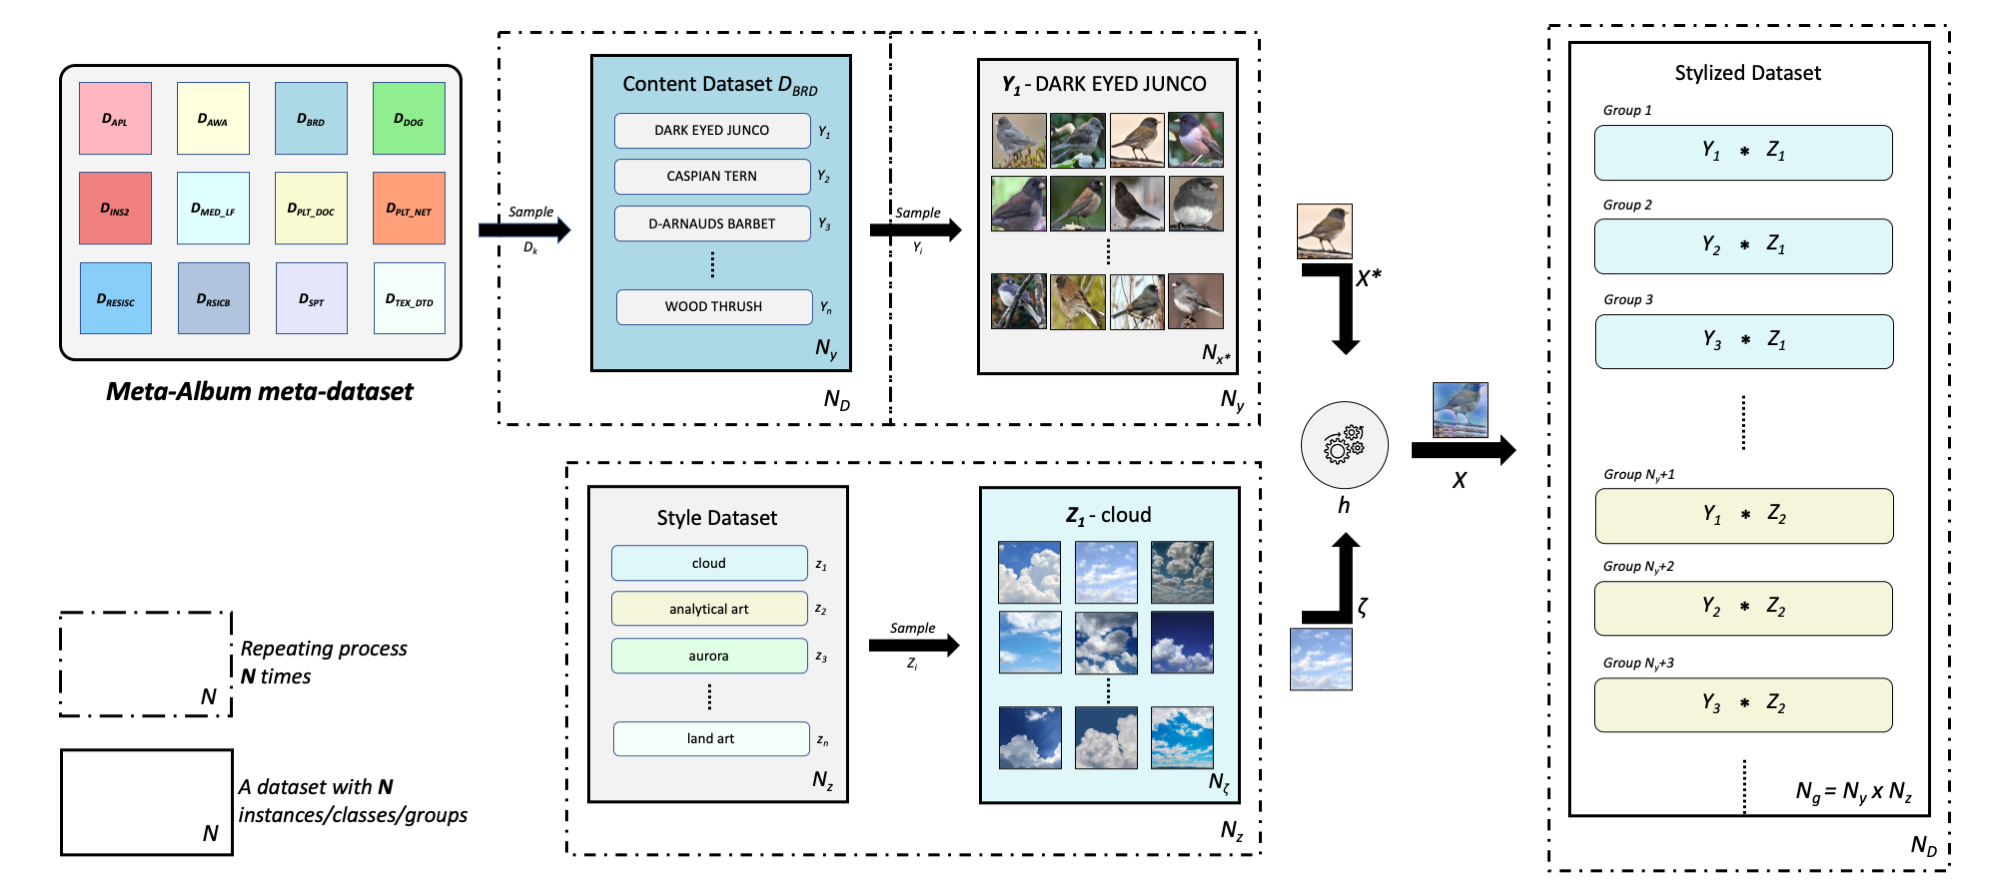
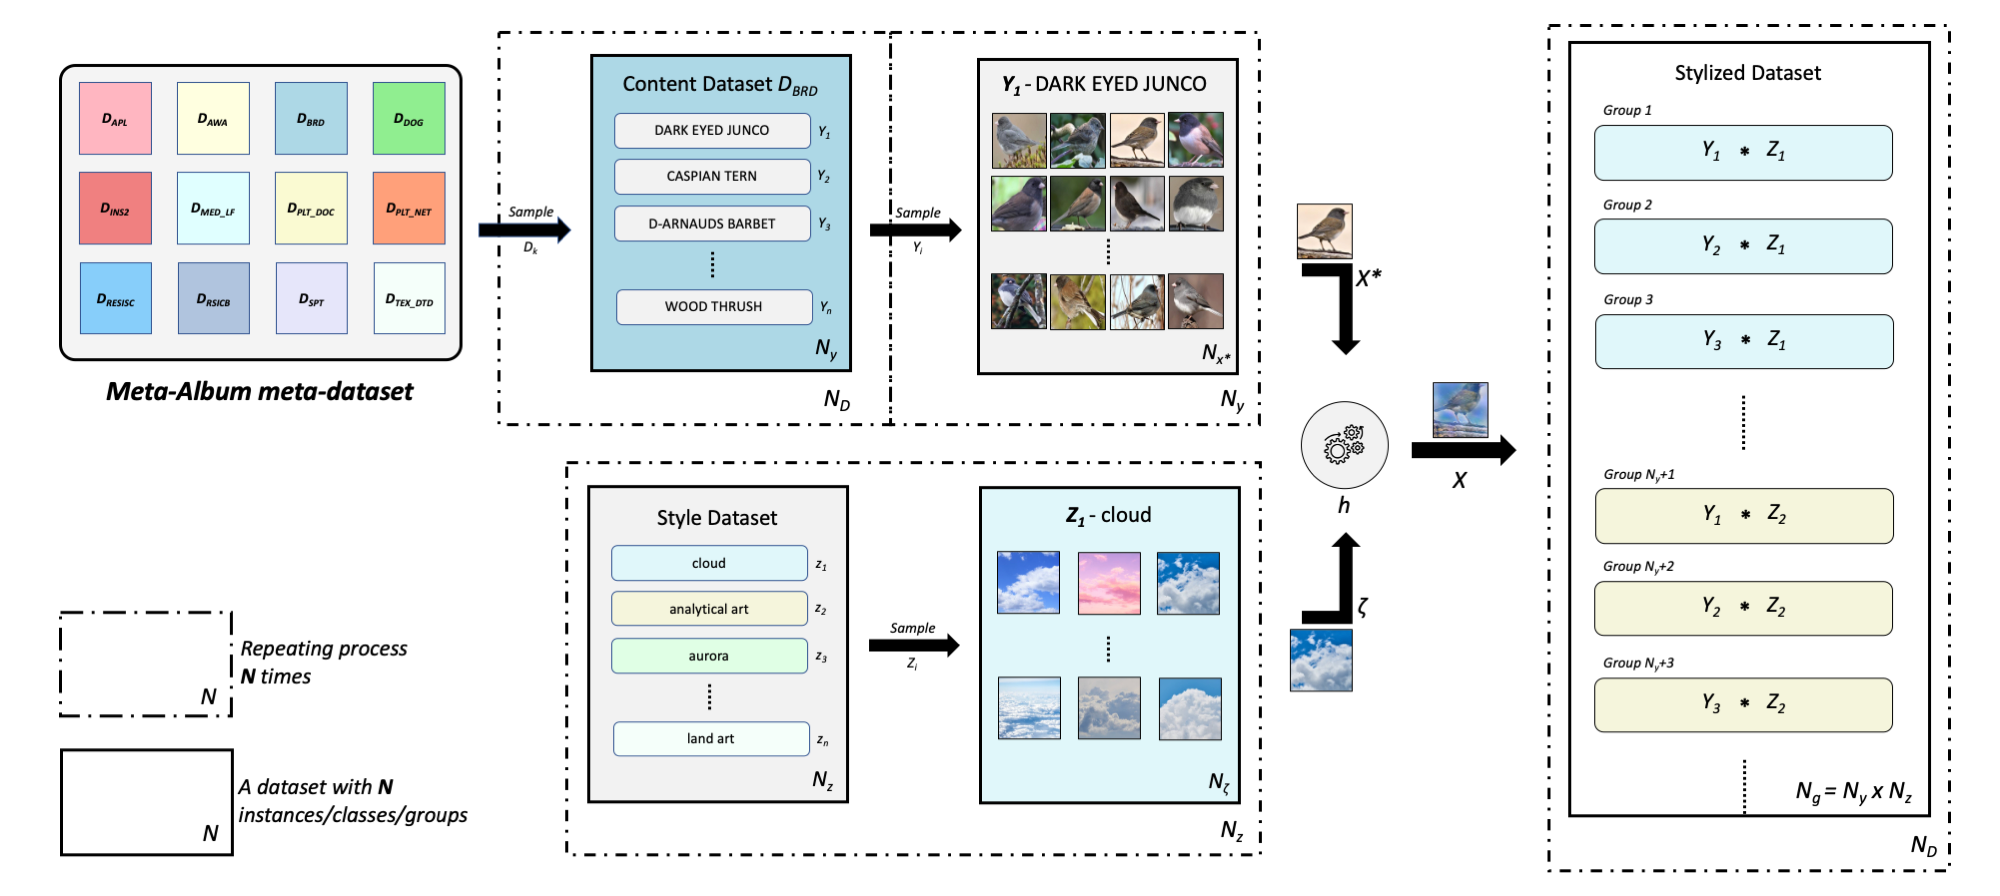
website updated

Changed region(s): [[0.496, 0.5938, 0.682, 0.875]]

diff --git a/index.html b/index.html
@@ -104,7 +104,7 @@
         <div class="section-title">
           <h2>About</h2>
           <p>
-            Stylized Meta-Album (SMA) is a new meta-dataset, consisting of 25 datasets(12 content datasets, 1 style dataset, 12 stylized datasets), designed to enhance studies on out-of-distribution generalization and related topics. 
+            Stylized Meta-Album (SMA) is a new meta-dataset, consisting of 24 datasets(12 content datasets and 12 stylized datasets), designed to enhance studies on out-of-distribution generalization and related topics. 
             SMA is constructed using style transfer techniques from 12 subject classification datasets (content datasets), SMA provides a diverse and extensive set of 4800 groups combining various subjects (objects, plants, animals, human actions, textures) with multiple styles. 
             This scale facilitates rigorous and expansive research that traditional datasets, which offer limited group variability and/or class diversity, cannot support. 
             SMA is a continuously growing meta-dataset. See our datasets in <a href="#datasets"><b><code>Datasets Section</code></b></a>.
@@ -169,7 +169,7 @@
         <div class="section-title">
           <h2>Datasets</h2>
           <p>We list in the tables below the data statistics of the SMA datasets. We chose 12 datasets from Meta-Album (content datasets). We scrapped a style dataset from the internet and we stylized the content datasets with the style dataset to get 12 stylized datasets. 
-            Each instance in these datasets is an image of 256x256 pixel images. Content and Stylized datasets are available in 2 versions: 
+            Each instance in these datasets is an image of 256x256 pixel images. Both Content and Stylized datasets are available in 2 versions: 
           </p>
           <ol>
             <li><strong>Meta-Album Extended:</strong> all classes and all images per class</li>
@@ -372,37 +372,6 @@
           </div>
         </div>
 
-        <!-- Style Dataset -->
-        <div class="row">
-          <div class="col-lg-1"></div>
-          <div class="table-responsive col-lg-10">
-            <table class="table caption-top">
-              <caption class="text-caption alert alert-secondary">
-                Style Dataset
-              </caption>
-
-              <thead>
-                <tr>
-                  <th scope="col">Dataset ID</th>
-                  <th scope="col">Domain</th>
-                  <th scope="col"># Classes</th>
-                  <th scope="col"># Images</th>
-                  <th scope="col">More</th>
-                </tr>
-              </thead>
-
-              <tbody>
-                <tr>
-                  <th scope="row">STY</th>
-                  <td>Style</td>
-                  <td>20</td><td>800</td>
-                  <td><a class="btn btn-sm btn-outline-dark" target="_blank" href="datasets/STY.html">Details <i class="fa-solid fa-circle-arrow-right"></i></a></td>
-                </tr>           
-              </tbody>
-            </table>
-          </div>
-        </div>
-
       </div>
     </section><!-- End Datasets Section -->
 
@@ -414,10 +383,9 @@
 
         <div class="section-title">
           <h2>Gallery</h2>
-          <p>Some sample images from Stylized Meta-Album datasets. Each image in Content Images and Stylized
-            Images represents one sample from one dataset</p>
+          <p>Some sample images from Stylized Meta-Album datasets. 
+            Row 1: content images. Row 2: content images stylized by style images. Each image represents a sample from one dataset</p>
           <p><strong>Content Images:</strong> original images from Meta-Album datasets<br>
-            <strong>Style Images:</strong> images from style dataset<br>
             <strong>Stylized Images:</strong> content images stylized by style images
           </p>
         </div>
@@ -425,7 +393,7 @@
         <div class="row">
           <div class="col-lg-1"></div>
           <div class="col-lg-10 col-md-12 align-items-stretch mt-4 mt-lg-0 text-center">
-            <img src="assets/img/samples/sample.png"  class="img-fluid">
+            <img src="assets/img/sample.png"  class="img-fluid">
           </div>
         </div>
 
